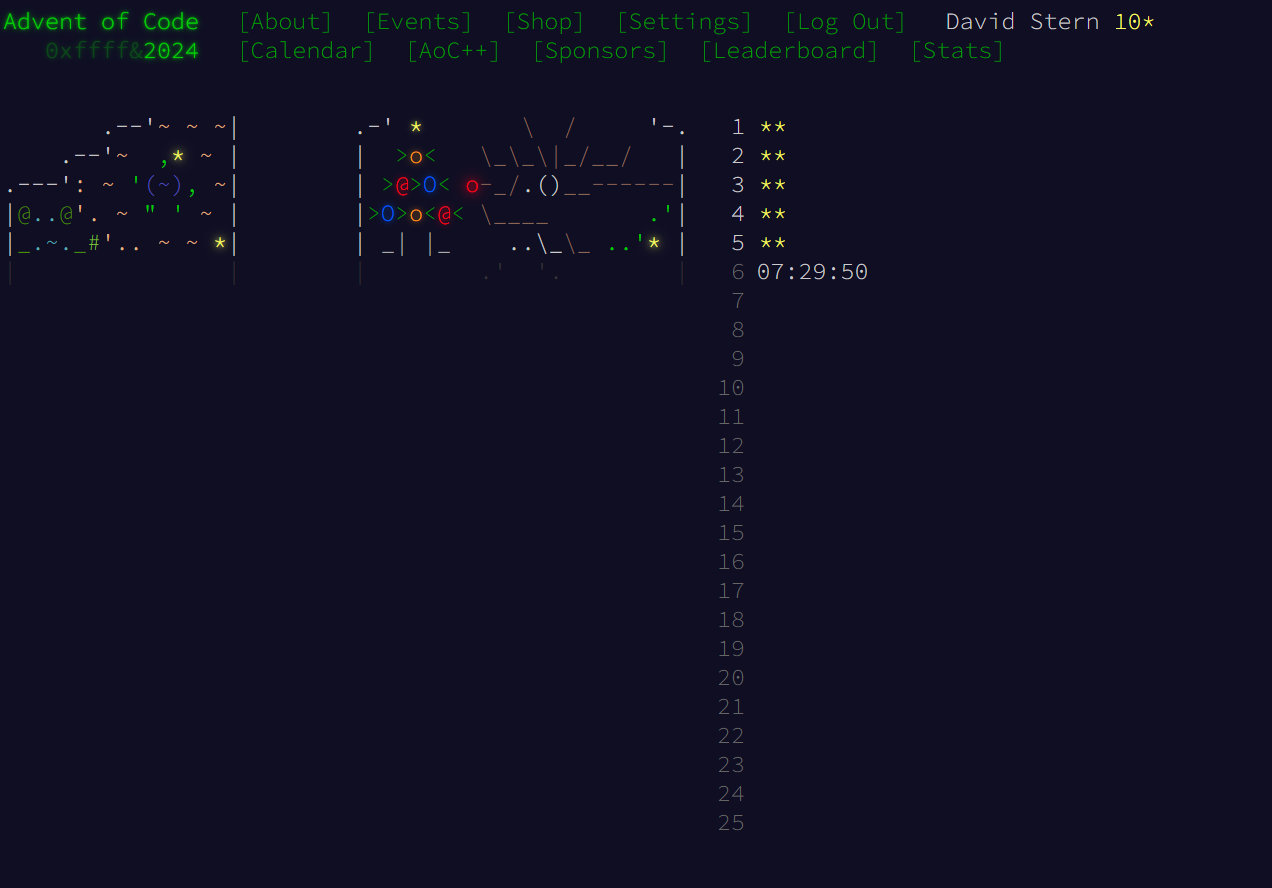
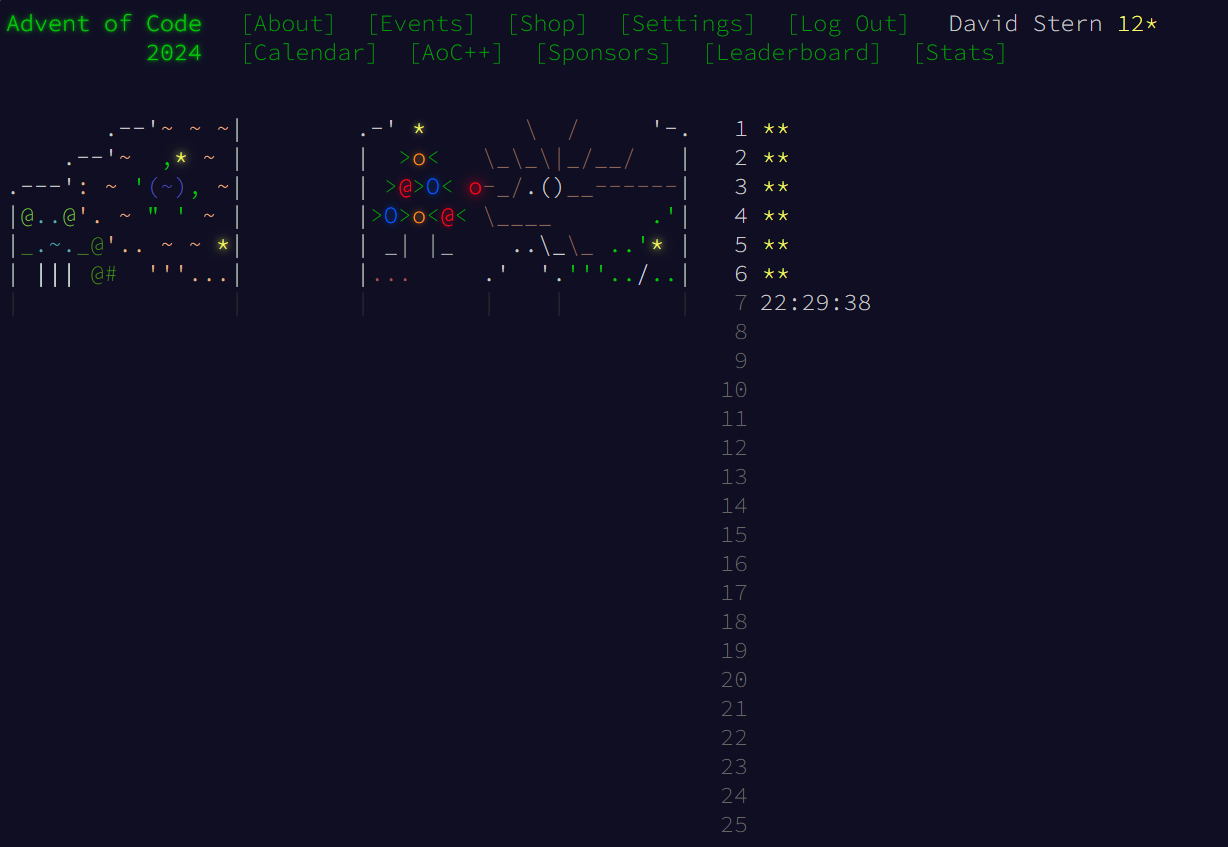
finished day6 part2

diff --git a/src/advent_solutions/day6.rs b/src/advent_solutions/day6.rs
@@ -7,15 +7,20 @@ pub struct  Day6;
 
 #[derive(Debug, Clone)]
 struct Guard {
+    ///Guards current row position
     row: i64,
+    ///Guards current column position
     col: i64,
+    ///Guards current direction
     direction: Direction,
-    visit_history: HashSet<(i64, i64)>
 }
 
 impl Guard {
     fn patrol_lab(&mut self, lab_map: &[Vec<char>]) -> anyhow::Result<()> {
-        self.visit_history.insert((self.row, self.col));
+        //! Move the guard by 1 step. 
+        //! If possible the guard takes 1 step in the same direction they are facing.
+        //! Otherwise, rotate 90 degrees until motion is possible. 
+        //! Returns an error if the guard walks off the lab map (which is actually the goal)
         loop {
             let (next_row, next_col) = match self.direction {
                 Direction::Right => ( self.row, self.col + 1),
@@ -39,6 +44,7 @@ impl Guard {
         }
     }
     fn try_new(lab_map: &[Vec<char>]) -> anyhow::Result<Self> {
+        //! Construct a starting guard from the input lab map.
         for (row_number, row) in lab_map.iter().enumerate() {
             for (col_number, col) in row.iter().enumerate() {
                 let row_number = row_number as i64;
@@ -49,17 +55,25 @@ impl Guard {
                             row: row_number, 
                             col: col_number, 
                             direction: Direction::Up,
-                            visit_history: HashSet::new()
                         })
                     }, 
                     '>' => {
-                        return Ok(Guard { row: row_number, col: col_number, direction: Direction::Right, visit_history: HashSet::new() })
+                        return Ok(Guard { 
+                            row: row_number, 
+                            col: col_number, 
+                            direction: Direction::Right})
                     },
                     'v' => {
-                        return Ok(Guard{row: row_number, col: col_number, direction: Direction::Down, visit_history: HashSet::new()})
+                        return Ok(Guard{
+                            row: row_number, 
+                            col: col_number, 
+                            direction: Direction::Down})
                     },
                     '<' => {
-                        return Ok(Guard { row: row_number, col: col_number, direction: Direction::Left, visit_history: HashSet::new() })
+                        return Ok(Guard { 
+                            row: row_number, 
+                            col: col_number, 
+                            direction: Direction::Left })
                     }
                     _ => {}
                 }
@@ -69,7 +83,7 @@ impl Guard {
     }
 }
 
-#[derive(Debug, Clone)]
+#[derive(Debug, Clone, Copy, Hash, PartialEq, Eq)]
 enum Direction {
     Up, 
     Down, 
@@ -90,15 +104,57 @@ impl Direction {
 
 impl SolveAdvent for Day6 {
     fn solve_part1(path_to_file: &str) -> anyhow::Result<()> {
+        //! Let the guard patrol the lab until they walk off the map.
+        //! Count the unique spaces traversed.
         let file_contents = read_input_file(path_to_file)?;
         let lab_map = file_contents.lines().map(|row| row.chars().collect::<Vec<_>>()).collect::<Vec<_>>();
         let mut guard = Guard::try_new(&lab_map)?;
-        while let Ok(_) = guard.patrol_lab(&lab_map) {}
-        println!("Guard visited {:?} unique positions in the lab", guard.visit_history.len());
+        let mut visit_history = HashSet::new();
+        visit_history.insert((guard.row, guard.col));
+        //When the guard patrol_lab call returns an error, the guard
+        // has walked off the map.
+        while guard.patrol_lab(&lab_map).is_ok() {
+            //Keep track of unique visits
+            visit_history.insert((guard.row, guard.col));
+        }
+        println!("Guard visited {:?} unique positions in the lab", visit_history.len());
         Ok(())
     }
 
-    fn solve_part2(_path_to_file: &str) -> anyhow::Result<()> {
+    fn solve_part2(path_to_file: &str) -> anyhow::Result<()> {
+        //! A brute-force simulation to find all single obstacles that can
+        //! be placed to induce the guard to get stuck in an infinite loop. Not sure
+        //! if there is a better way to do this.
+        let file_contents = read_input_file(path_to_file)?;
+        let mut lab_map = file_contents.lines().map(|row| row.chars().collect::<Vec<_>>()).collect::<Vec<_>>();
+        let guard = Guard::try_new(&lab_map)?;
+        let mut successful_guard_loops = 0;
+        for row_number in 0..lab_map.len() {
+            for col_number in 0..lab_map[0].len() {
+                if lab_map[row_number][col_number] == '#' || lab_map[row_number][col_number] == '^' {
+                    //We are not allowed to place a new obstacle if there already is an obstacle
+                    //or this is the guards starting position
+                    continue;
+                }
+                //Temporarily change row,col to contain an obstacle.
+                lab_map[row_number][col_number] = '#';
+                let mut guard = guard.clone();
+                //An infinite loop occurs if the same row, col and direction are ever repeated.
+                //Because the guards progression are deterministic, this gurantees a infinite loop has been reached
+                let mut guard_loop_detector = HashSet::new();
+                guard_loop_detector.insert((guard.row, guard.col, guard.direction));
+                while guard.patrol_lab(&lab_map).is_ok() {
+                    if guard_loop_detector.contains(&(guard.row, guard.col, guard.direction)) {
+                        successful_guard_loops += 1;
+                        break;
+                    }
+                    guard_loop_detector.insert((guard.row, guard.col, guard.direction));
+                }
+                //After each simulation we put the current spot back to being empty. 
+                lab_map[row_number][col_number] = '.';
+            }
+        }
+        println!("There were {} unique obstacles that generate infinite guard loops", successful_guard_loops);
         Ok(())
     }
 }

diff --git a/src/main.rs b/src/main.rs
@@ -4,6 +4,6 @@ use crate::advent_solutions::SolveAdvent;
 
 fn main() -> anyhow::Result<()> {
     Day6::solve_part1("input.txt")?;
-    Day6::solve_part2("test.txt")?;
+    Day6::solve_part2("input.txt")?;
     Ok(())
 }

diff --git a/README.md b/README.md
@@ -1,5 +1,5 @@
 ## Progress Summary
-Just like last year, I am working through the 2024 [Advent of Code](https://adventofcode.com/2024) problems. I currently have `10` stars. Each day's solutions are found in the `/advent_solutions` folder under the day in question. As requested by the creator of the problems, I do not provide the input text, only the code solutions. To run a certain solution, ensure that the correct input text is placed in an `input.txt` file. Just like last year, solutions implement the following trait: 
+Just like last year, I am working through the 2024 [Advent of Code](https://adventofcode.com/2024) problems. I currently have `12` stars. Each day's solutions are found in the `/advent_solutions` folder under the day in question. As requested by the creator of the problems, I do not provide the input text, only the code solutions. To run a certain solution, ensure that the correct input text is placed in an `input.txt` file. Just like last year, solutions implement the following trait: 
 ```rust
 pub trait SolveAdvent {
     ///How to solve part1 of the days puzzle.
